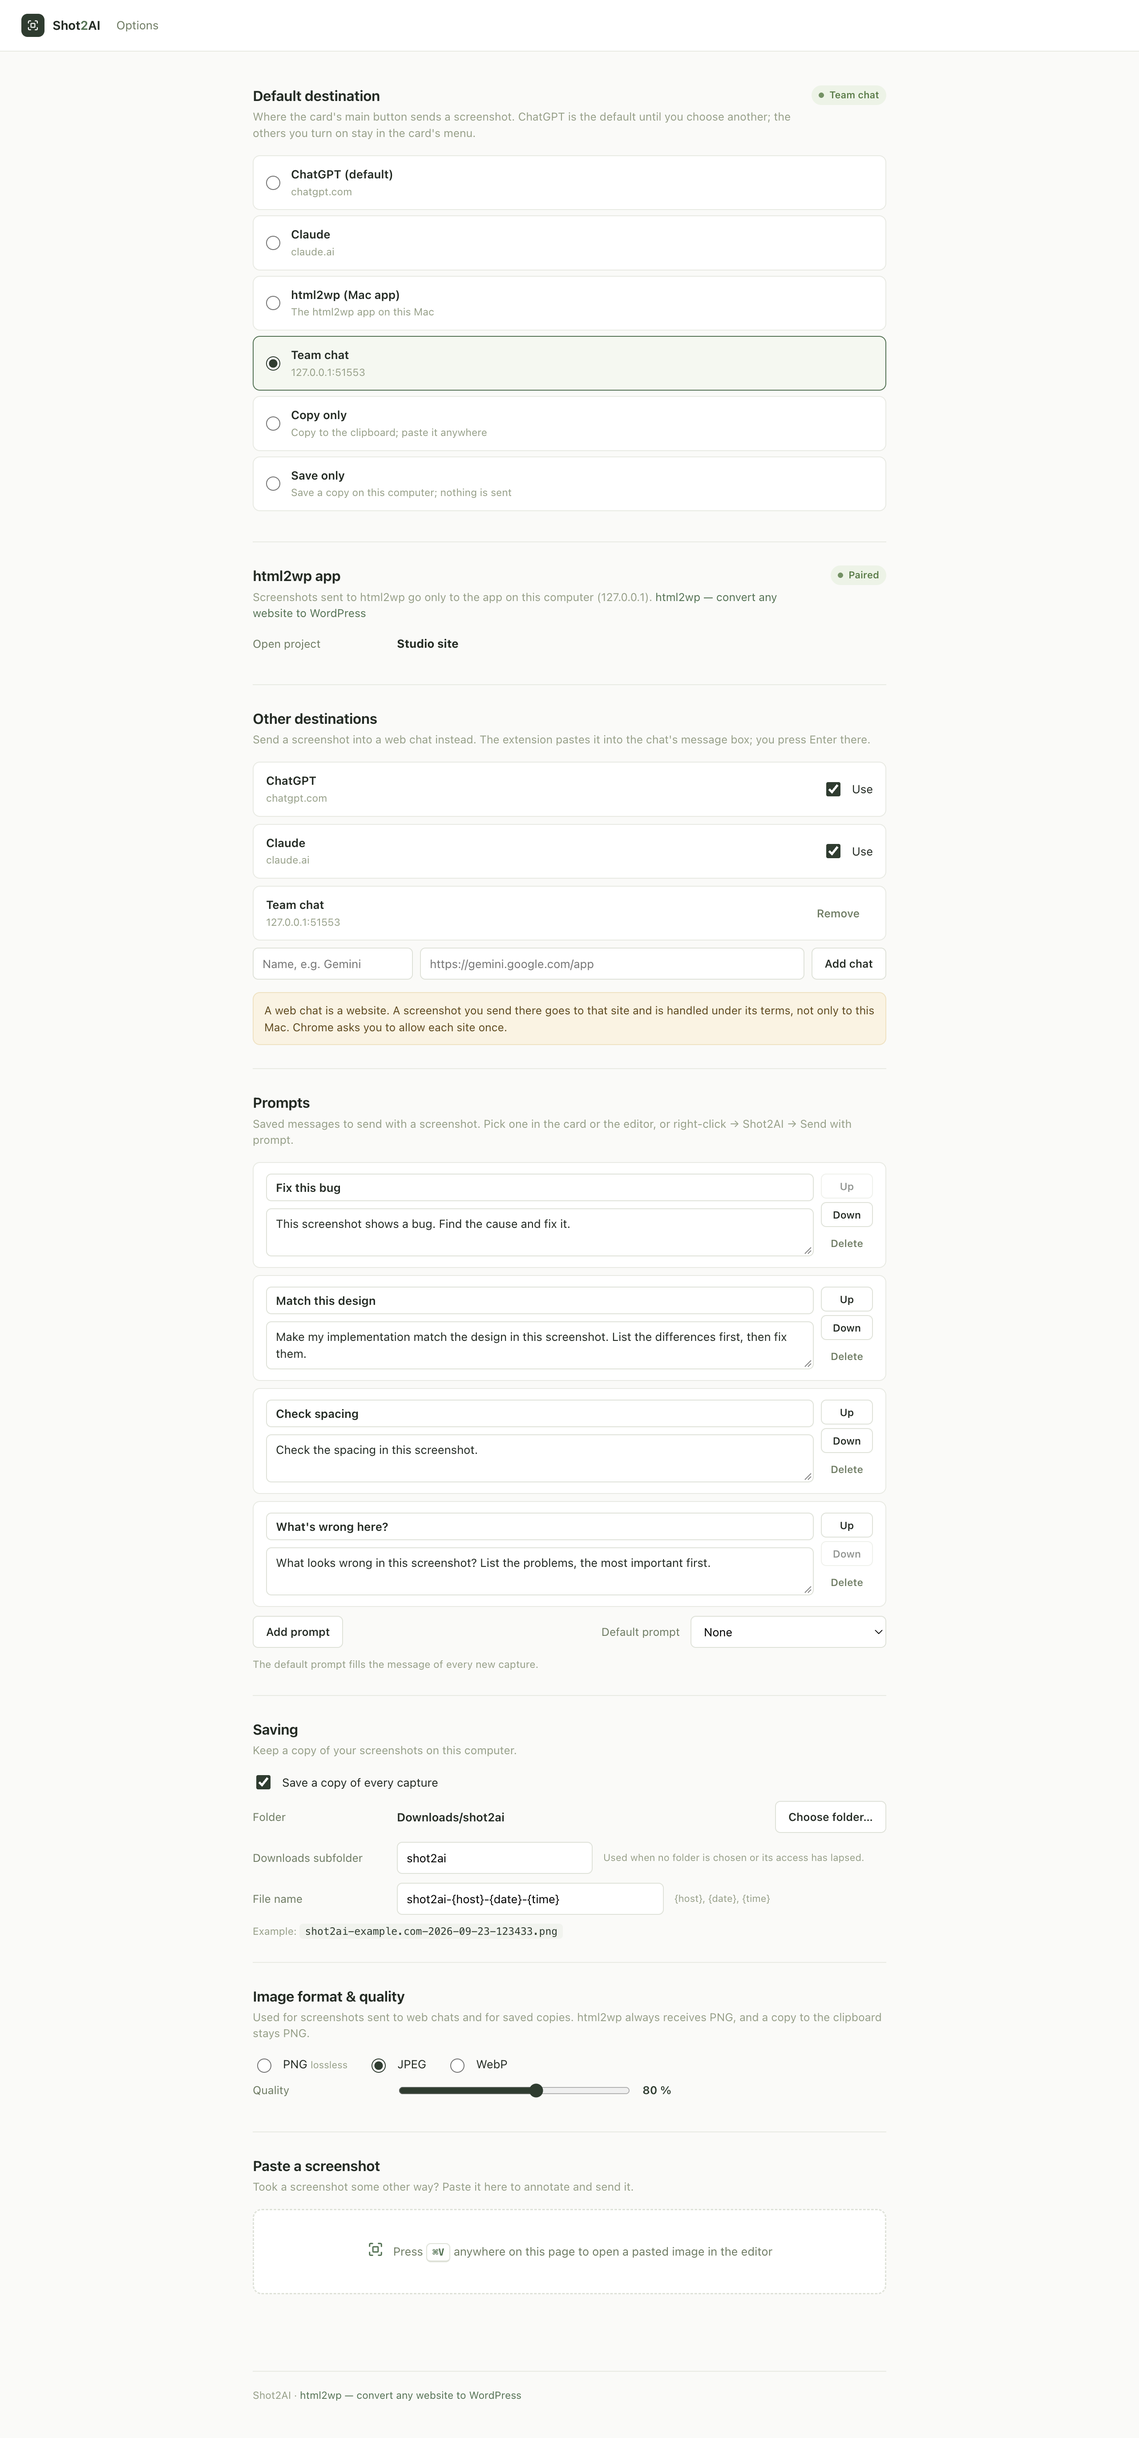
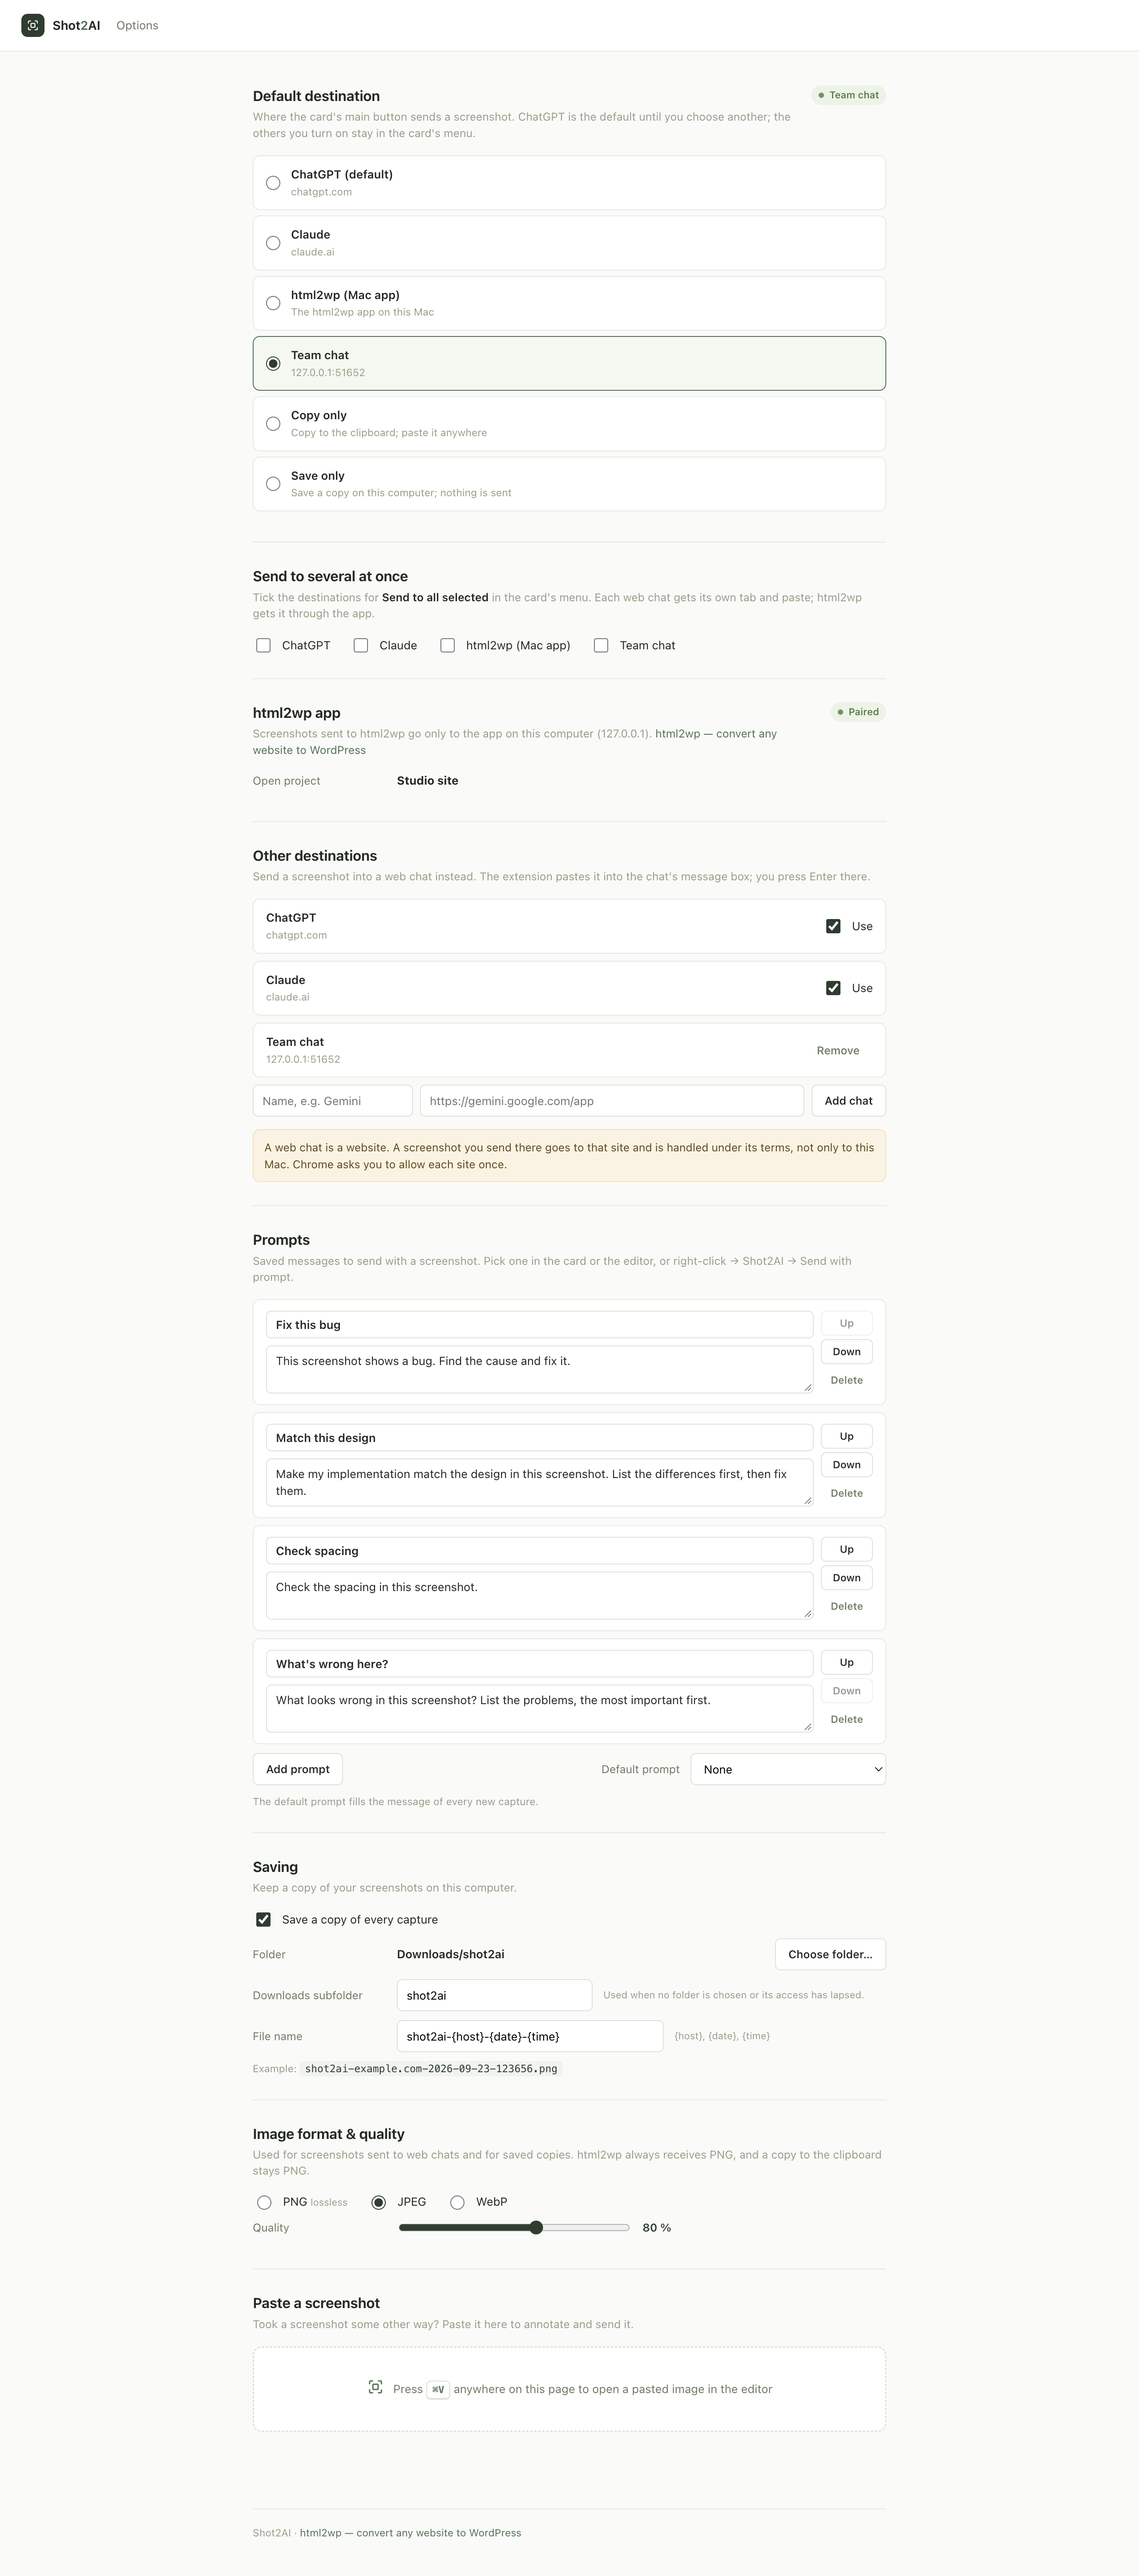
Multi-send: tick several destinations and send to all selected
Checkboxes in the card's destination menu and in Options. Web chats get
their own tab and paste one after another; html2wp goes through the
bridge meanwhile. One first-use notice covers every web chat in the set,
and the card lists the result per destination.

Claude-Session: https://claude.ai/code/session_01Xf7wTz9XZFZ1GCWzDzHaWW

diff --git a/src/card.js b/src/card.js
@@ -37,6 +37,16 @@
     .menu button{display:flex;align-items:center;justify-content:space-between;width:100%;padding:7px 8px;border-radius:6px;text-align:left;font-size:12.5px}
     .menu button:hover{background:#f1f3ee}
     .menu small{color:#969f88;font-size:11px}
+    .menu .item{display:flex;align-items:center;gap:2px;border-radius:6px}
+    .menu .item:hover{background:#f1f3ee}
+    .menu .item input{flex:none;width:15px;height:15px;margin:0 2px 0 7px;accent-color:#2f3c30;cursor:pointer}
+    .menu .item button{flex:1;padding-left:5px}
+    .menu .item button:hover{background:none}
+    .menu .all{margin-top:4px;border-top:1px solid #eef0ea;border-radius:0;font-weight:600;color:#2f3c30}
+    .result ul{margin:0;padding:0;list-style:none}
+    .result li{display:flex;gap:6px;padding:2px 0}
+    .result li b{font-weight:650;white-space:nowrap}
+    .result li.fail{color:#6f3f33}
     .menu .options{border-top:1px solid #eef0ea;margin-top:4px;border-radius:0 0 6px 6px;color:#547254}
     .tools{display:flex;gap:4px;margin-top:8px}
     .tools button{flex:1;display:flex;align-items:center;justify-content:center;gap:5px;height:30px;border-radius:7px;color:#4d5a47;font-size:11.5px;font-weight:560}
@@ -171,6 +181,46 @@
       $('.saved').hidden = false;
     }
 
+    let selected = [...(o.multi || [])];
+    let renderAll = () => {};
+    async function sendToMany(confirmed = false) {
+      if (busy) return;
+      $('.menu').hidden = true;
+      const targets = o.destinations.filter((d) => selected.includes(d.id));
+      const chats = targets.filter((d) => d.kind === 'chat');
+      const unknown = chats.filter((d) => !o.acknowledged[d.origin]);
+      // One notice for every web chat in the set that has not been told yet.
+      if (!confirmed && unknown.length) {
+        const names = unknown.map((d) => d.name).join(', ');
+        const hosts = unknown.map((d) => d.host).join(', ');
+        show('warn', `${names} ${unknown.length > 1 ? 'are websites' : 'is a website'}. The screenshot and message will go to ${hosts}, not only to this Mac.`,
+          [['Continue', () => { for (const d of unknown) o.acknowledged[d.origin] = true; void sendToMany(true); }, true, 'send'], ['Cancel', () => show('', '')]]);
+        return;
+      }
+      const text = input.value.trim();
+      if (chats.length) await copy(true);
+      setBusy(true);
+      $('.send span').textContent = `Sending to ${targets.length}…`;
+      const r = await chrome.runtime.sendMessage({ type: 'card-send-many', id: o.id, destinations: targets.map((d) => d.id), text, acknowledge: unknown.map((d) => d.origin) });
+      setBusy(false);
+      const results = r?.results || [];
+      lastOk = results.length > 0 && results.every((x) => x.ok);
+      show(lastOk ? 'ok' : 'warn', '');
+      const box = $('.result');
+      const list = document.createElement('ul');
+      for (const x of results) {
+        const li = document.createElement('li');
+        li.className = x.ok ? 'ok' : 'fail';
+        li.innerHTML = '<b></b><span></span>';
+        li.querySelector('b').textContent = `${x.ok ? '✓' : '!'} ${x.name}`;
+        li.querySelector('span').textContent = x.text;
+        list.append(li);
+      }
+      box.replaceChildren(list);
+      box.hidden = false;
+      if (lastOk) { input.value = ''; input.blur(); scheduleHide(); }
+    }
+
     async function sendTo(destination, confirmed = false) {
       if (busy) return;
       $('.menu').hidden = true;
@@ -209,15 +259,32 @@
     $('.more').addEventListener('click', () => {
       const menu = $('.menu');
       menu.innerHTML = '<div class="head">Send to</div>';
+      // Tick several for "Send to all selected"; a name alone sends to that one.
       for (const d of o.destinations) {
-        const b = document.createElement('button');
-        b.setAttribute('role', 'menuitem');
-        b.innerHTML = '<span></span><small></small>';
+        const row = document.createElement('div');
+        row.className = 'item';
+        row.innerHTML = '<input type="checkbox"><button role="menuitem"><span></span><small></small></button>';
+        const tick = row.querySelector('input');
+        tick.checked = selected.includes(d.id);
+        tick.setAttribute('aria-label', `Select ${d.name}`);
+        tick.addEventListener('change', () => {
+          selected = tick.checked ? [...selected, d.id] : selected.filter((x) => x !== d.id);
+          chrome.storage.local.set({ multiSend: selected });
+          renderAll();
+        });
+        const b = row.querySelector('button');
         b.querySelector('span').textContent = d.name;
         b.querySelector('small').textContent = d.kind === 'html2wp' ? 'this Mac' : d.host;
         b.addEventListener('click', () => void sendTo(d));
-        menu.append(b);
+        menu.append(row);
       }
+      const all = document.createElement('button');
+      all.className = 'all';
+      all.setAttribute('role', 'menuitem');
+      all.addEventListener('click', () => void sendToMany());
+      menu.append(all);
+      renderAll = () => { all.textContent = `Send to all selected (${selected.length})`; all.hidden = selected.length < 2; };
+      renderAll();
       const add = document.createElement('button');
       add.className = 'options';
       add.textContent = 'Add a chat in Options…';

diff --git a/src/flow.js b/src/flow.js
@@ -33,7 +33,7 @@ export async function showCard(tabId, id, capture, { text = '', autoSend = false
   await chrome.scripting.executeScript({
     target: { tabId },
     func: (o) => window.__shot2aiShowCard(o),
-    args: [{ id, png: await base64(capture.png), scale: capture.scale, destinations: list, main, meta, text: text || await defaultPromptText(), prompts: (await prompts()).map(({ name, text: t }) => ({ name, text: t })), autoSend, acknowledged: s.acknowledged, saved, mod: (await isMac()) ? '⌘' : 'Ctrl+', icons: Object.fromEntries(pick.map((k) => [k, icons[k]])) }],
+    args: [{ id, png: await base64(capture.png), scale: capture.scale, destinations: list, multi: s.multiSend.filter((d) => list.some((x) => x.id === d)), main, meta, text: text || await defaultPromptText(), prompts: (await prompts()).map(({ name, text: t }) => ({ name, text: t })), autoSend, acknowledged: s.acknowledged, saved, mod: (await isMac()) ? '⌘' : 'Ctrl+', icons: Object.fromEntries(pick.map((k) => [k, icons[k]])) }],
   });
 }
 
@@ -61,6 +61,29 @@ export async function cardSend(message) {
   const s = await settings();
   const blob = await encode(capture.png, s);
   return pasteIntoChat(destination, blob, message.text, fileName(s.filenamePattern, capture.url, new Date(), EXTENSIONS[blob.type]));
+}
+
+// Several destinations at once. html2wp goes through the bridge while the web
+// chats run one after another: each one's tab has to come to the front.
+export async function cardSendMany(message) {
+  const capture = await getCapture(message.id);
+  if (!capture?.png) return { failed: true, text: 'This screenshot is no longer available. Capture the area again.' };
+  const s = await settings();
+  if (message.acknowledge?.length) await update({ acknowledged: { ...s.acknowledged, ...Object.fromEntries(message.acknowledge.map((o) => [o, true])) } });
+  const list = (await destinations()).filter((d) => message.destinations.includes(d.id));
+  const app = list.find((d) => d.kind === 'html2wp');
+  const appResult = app ? sendToApp(message.text, capture.png) : null;
+  const results = [];
+  for (const d of list.filter((x) => x.kind === 'chat')) {
+    const blob = await encode(capture.png, s);
+    const r = await pasteIntoChat(d, blob, message.text, fileName(s.filenamePattern, capture.url, new Date(), EXTENSIONS[blob.type]));
+    results.push({ id: d.id, name: d.name, ok: !!r.ok, text: r.ok ? (r.submitted ? 'Sent' : 'Pasted; press Enter there') : r.needsPermission ? 'Needs permission in Options' : 'Could not paste; it is on the clipboard' });
+  }
+  if (app) {
+    const outcome = await appResult;
+    results.unshift({ id: 'html2wp', name: 'html2wp', ok: !!outcome.ok, text: outcomeText(outcome) });
+  }
+  return { results };
 }
 
 export async function flagError() {

diff --git a/src/options.js b/src/options.js
@@ -1,6 +1,6 @@
 import { connect, pair } from './bridge.js';
 import { paint } from './icons.js';
-import { PRESETS, settings, update, sitePattern, fileName, cleanSubfolder, isMac, choices, FIRST_DEFAULT, prompts } from './settings.js';
+import { PRESETS, settings, update, sitePattern, fileName, cleanSubfolder, isMac, choices, FIRST_DEFAULT, prompts, destinations } from './settings.js';
 import { getHandle, putHandle, deleteHandle } from './captures.js';
 import { FOLDER } from './save.js';
 import { acceptPastedImages } from './paste.js';
@@ -86,6 +86,29 @@ if (suggested) {
     else $('default').scrollIntoView({ block: 'start' });
   });
 }
+
+// ---- send to several ----------------------------------------------------
+
+async function renderMulti() {
+  const [list, s] = await Promise.all([destinations(), settings()]);
+  $('multi-list').replaceChildren(...list.map((d) => {
+    const label = document.createElement('label');
+    label.className = 'toggle';
+    label.innerHTML = '<input type="checkbox"><span></span>';
+    label.querySelector('span').textContent = d.kind === 'html2wp' ? 'html2wp (Mac app)' : d.name;
+    const box = label.querySelector('input');
+    box.checked = s.multiSend.includes(d.id);
+    box.addEventListener('change', async () => {
+      const current = (await settings()).multiSend.filter((x) => x !== d.id);
+      await update({ multiSend: box.checked ? [...current, d.id] : current });
+    });
+    return label;
+  }));
+}
+// Destinations change elsewhere too (the card's menu, the right-click menu).
+chrome.storage.onChanged.addListener((changes) => {
+  if (['multiSend', 'presets', 'customChats', 'defaultDestination'].some((k) => k in changes)) void renderMulti();
+});
 
 // ---- destinations -------------------------------------------------------
 
@@ -259,4 +282,4 @@ $('quality').addEventListener('change', async (e) => { await update({ imageQuali
 $('paste-keys').innerHTML = `Press <kbd>${isMac ? '⌘V' : 'Ctrl+V'}</kbd> anywhere on this page to open a pasted image in the editor`;
 acceptPastedImages();
 
-await Promise.all([renderDefault(), refreshApp(), renderDestinations(), renderSaving(), renderFormat(), renderPrompts()]);
+await Promise.all([renderDefault(), refreshApp(), renderDestinations(), renderSaving(), renderFormat(), renderPrompts(), renderMulti()]);

diff --git a/src/options.html b/src/options.html
@@ -17,6 +17,11 @@
     <div id="default-list" class="list" role="radiogroup" aria-labelledby="default-title"></div>
   </section>
 
+  <section class="section" aria-labelledby="multi-title">
+    <div class="section-head"><div><h2 id="multi-title">Send to several at once</h2><p>Tick the destinations for <b>Send to all selected</b> in the card's menu. Each web chat gets its own tab and paste; html2wp gets it through the app.</p></div></div>
+    <div id="multi-list" class="multi"></div>
+  </section>
+
   <section class="section" aria-labelledby="app-title">
     <div class="section-head"><div><h2 id="app-title">html2wp app</h2><p>Screenshots sent to html2wp go only to the app on this computer (127.0.0.1). <a href="https://html2wp.dev/" target="_blank" rel="noopener">html2wp — convert any website to WordPress</a></p></div><span id="app-state" class="status">Checking</span></div>
     <div id="app-project" class="row" hidden><span class="row-label">Open project</span><strong id="app-project-name"></strong></div>

diff --git a/src/background.js b/src/background.js
@@ -3,7 +3,7 @@
 // here, since a content script cannot reach 127.0.0.1 or other tabs.
 import { deleteCapture, getCapture } from './captures.js';
 import { startCapture, cropSelection } from './capture.js';
-import { showCard, openEditor, cardSend, flagError } from './flow.js';
+import { showCard, openEditor, cardSend, cardSendMany, flagError } from './flow.js';
 import { rebuildMenu, onMenuClick } from './menu.js';
 import { saveImage, savedText } from './save.js';
 
@@ -21,6 +21,7 @@ chrome.commands.onCommand.addListener((command, tab) => {
 const handlers = {
   capture: (m) => startCapture(m.tabId).then((id) => ({ ok: true, id }), (e) => ({ error: e.message })),
   'card-send': cardSend,
+  'card-send-many': cardSendMany,
   annotate: async (m, sender) => { await openEditor(m.id, sender.tab?.id, m.text); return { ok: true }; },
   save: async (m) => {
     const capture = await getCapture(m.id);

diff --git a/src/settings.js b/src/settings.js
@@ -20,6 +20,8 @@ const DEFAULTS = {
   customChats: [],
   // The destination the card's main button uses.
   defaultDestination: 'chatgpt',
+  // Destinations ticked for "Send to all selected".
+  multiSend: [],
   // The prompt that fills the message of every new capture, or null.
   defaultPrompt: null,
   // Web chats the owner has been told receive the screenshot (by origin).

diff --git a/src/options.css b/src/options.css
@@ -60,3 +60,5 @@
 .prompt-row .moves .button{min-height:28px;padding:4px 10px;font-size:11.5px}
 .row-label.short{width:auto}
 select.field{height:36px}
+.multi{display:flex;flex-wrap:wrap;gap:8px 22px}
+.section-head p b{color:var(--ink);font-weight:600}
